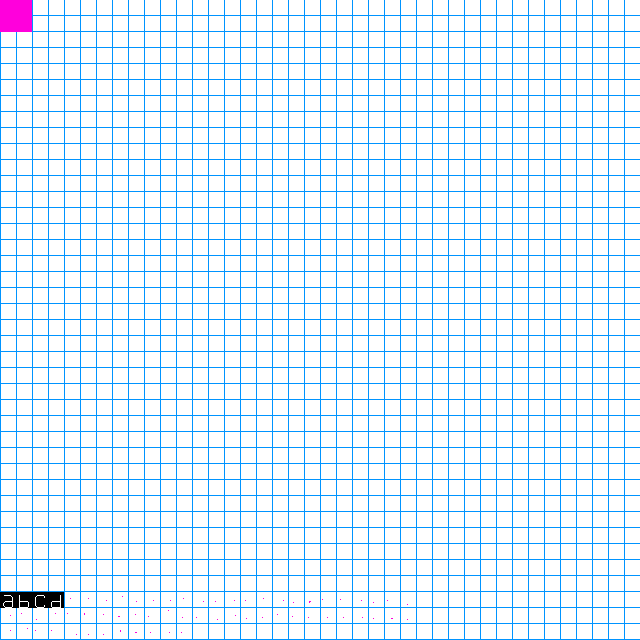
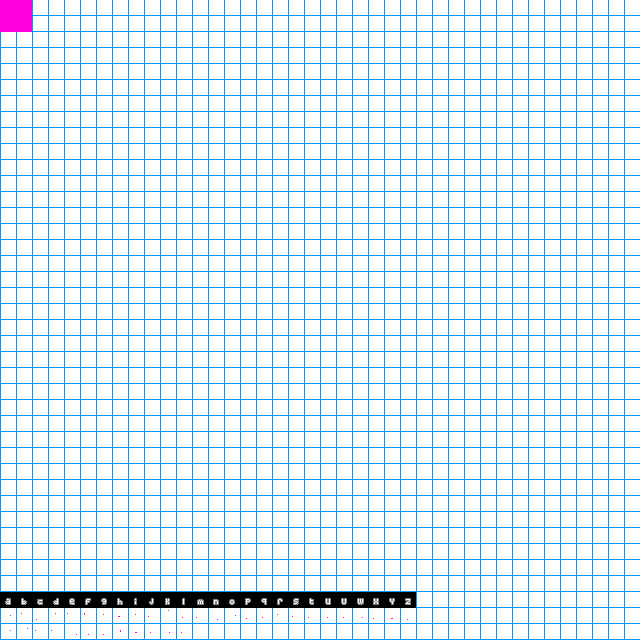
Further dev on Font

Changed region(s): [[0.0, 0.9062, 0.6562, 0.9688]]

diff --git a/src/com/kozie/dungeon/gfx/Font.java b/src/com/kozie/dungeon/gfx/Font.java
@@ -1,5 +1,7 @@
 package com.kozie.dungeon.gfx;
 
+import java.awt.Dimension;
+
 public class Font {
 
 	private SpriteCollection chars;
@@ -24,7 +26,9 @@ public class Font {
 		for (int y = 0; y < charTable.length; y++) {
 			for (int x = 0; x < charTable[y].length(); x++) {
 				
-				chars.set(Character.toString(charTable[y].charAt(x)), new Sprite(sheet, offset + y * xTiles + x));
+				Sprite sprite = new Sprite(sheet, offset + y * xTiles + x);
+				
+				chars.set(Character.toString(charTable[y].charAt(x)), sprite);
 			}
 		}
 	}
@@ -40,7 +44,7 @@ public class Font {
 			if (c == " " || chars.get(c) == null) continue;
 			
 			Sprite sprite = chars.get(c);
-			screen.render(sprite, x + i * sprite.width, y, colors);
+			screen.render(sprite, x + i * sprite.width / 2, y, colors);
 		}
 	}
 }

diff --git a/src/com/kozie/dungeon/GameComponent.java b/src/com/kozie/dungeon/GameComponent.java
@@ -111,11 +111,11 @@ public class GameComponent extends Canvas implements Runnable {
 				keyListener.release();
 				mouseListener.release();
 
-				lastRun = System.nanoTime();
+				/*lastRun = System.nanoTime();
 				lastTimer = System.currentTimeMillis();
 				lastTickTime = lastTimer;
 
-				continue;
+				continue;*/
 			}
 
 			// Set ticks that are unprocessed
@@ -198,7 +198,7 @@ public class GameComponent extends Canvas implements Runnable {
 
 		// Temp for benchmark
 		screen.test(this);
-		font.draw("a bb abc ddd", 30, 30, Colors.get(-1, 0, 0, 555));
+		font.draw("hello my name is koos", 30, 30, Colors.get(-1, 0, 0, 555));
 		
 		// Draw screen info onto the buffered image
 		for (int i = 0; i < screen.pixels.length; i++) {

diff --git a/src/com/kozie/dungeon/gfx/Sprite.java b/src/com/kozie/dungeon/gfx/Sprite.java
@@ -1,5 +1,7 @@
 package com.kozie.dungeon.gfx;
 
+import java.awt.Dimension;
+
 public class Sprite {
 
 	public int width, height;
@@ -15,5 +17,11 @@ public class Sprite {
 	public Sprite(SpriteSheet sheet, int offset) {
 		
 		this(sheet, offset, 1, 1);
+	}
+
+	public void setDimensions(Dimension dimension) {
+		
+		width = (int) dimension.getWidth();
+		height = (int) dimension.getHeight();
 	}
 }
